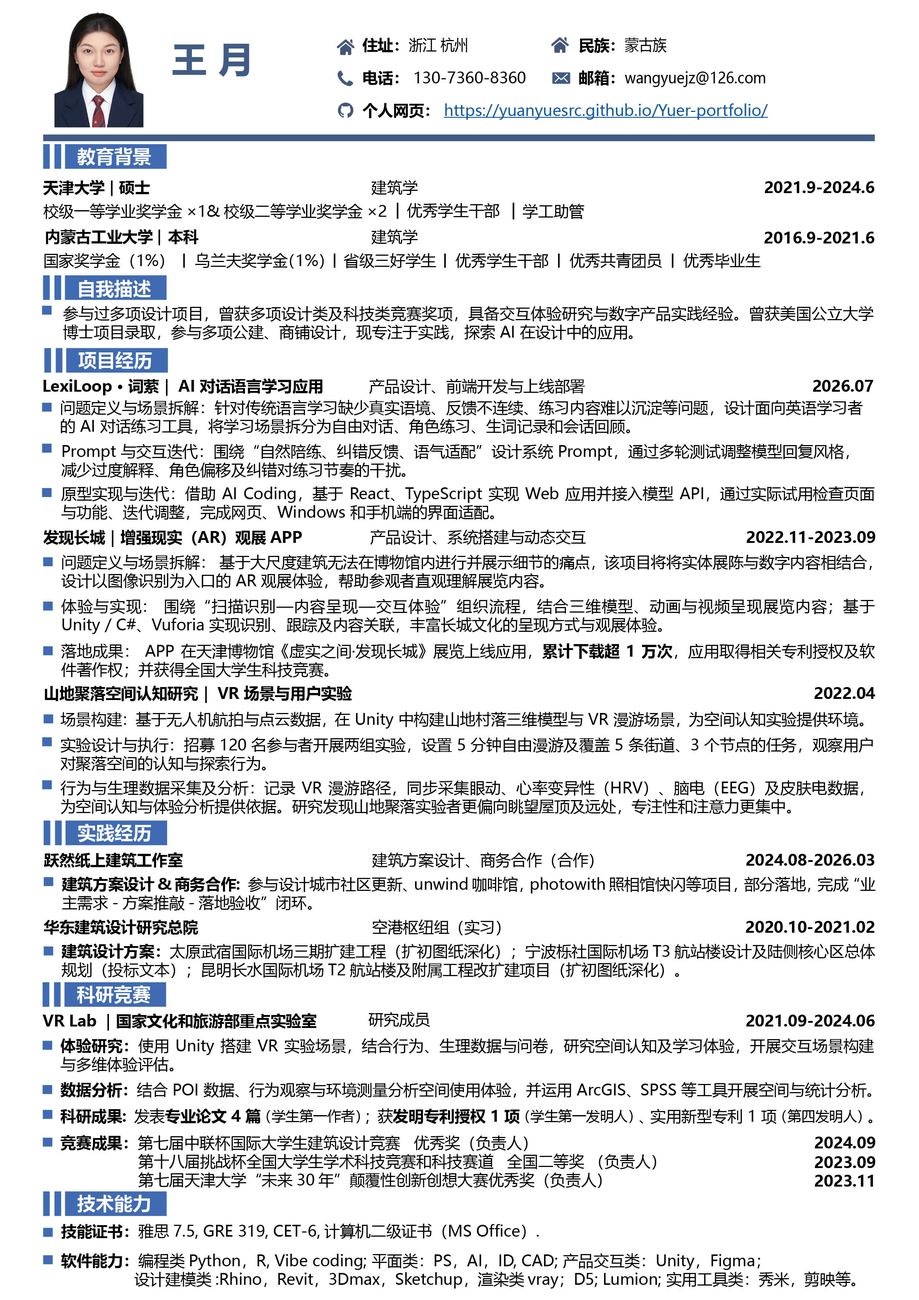
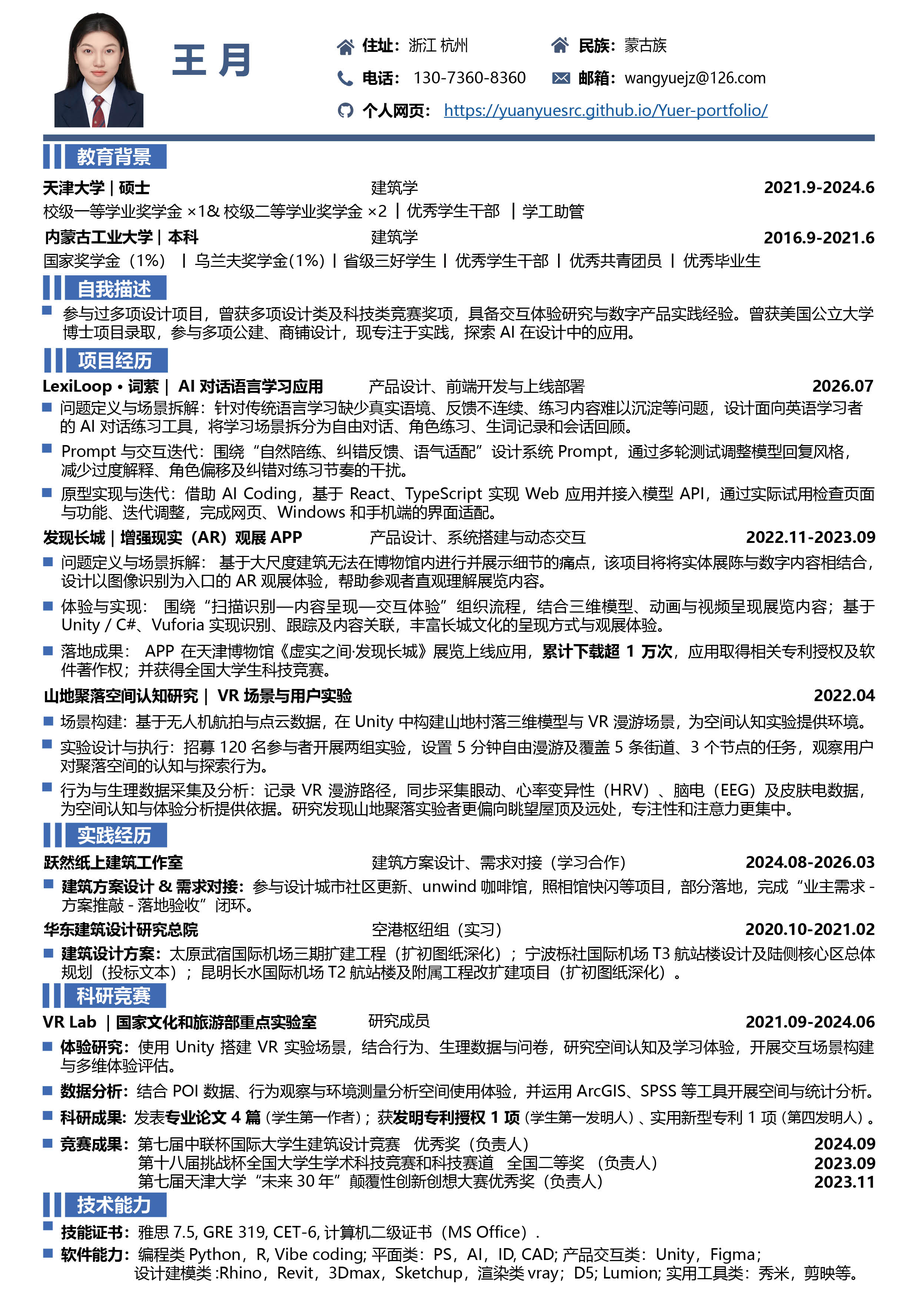
Update personal resume image and refresh cache versions

Changed region(s): [[0.031, 0.5282, 0.9625, 0.9943]]

diff --git a/index.html b/index.html
@@ -1,2 +1,2 @@
-<!doctype html><html lang="zh-CN"><head><meta charset="utf-8"><meta name="viewport" content="width=device-width,initial-scale=1"><meta name="description" content="王月 Yuer，探索 AI 在设计中的应用。建筑作品集、软件与交互，以及生活片段。"><title>Yuer · 王月的窗边工作台</title><link rel="stylesheet" href="style.css"><link rel="stylesheet" href="final.css"><link rel="stylesheet" href="airy.css"><link rel="stylesheet" href="ink-dialog.css"><link rel="stylesheet" href="music.css?v=quietnav1"><style>.quiet-aigc-divider{display:inline-block;width:1px;height:10px;background:#dedfd9;align-self:center;flex-shrink:0}</style></head><body><nav class="quiet-nav" aria-label="作品与个人介绍导航"><details class="quiet-projects aigc-menu"><summary>AIGC</summary><div class="quiet-dropdown"><a href="#" id="nav-aigc">AIGC视频</a><a href="#" id="nav-aigc-architecture">AIGC建筑</a></div></details><span class="quiet-aigc-divider" aria-hidden="true"></span><details class="quiet-projects"><summary>Apps &amp; Web</summary><div class="quiet-dropdown"><a href="lexiloop/">LexiLoop · 词萦</a><a href="timer/">Timer</a><a href="greatwall/">发现长城 · AR</a><a href="cozy-home/experience.html">四口之家·虚拟小窝</a></div></details><span class="quiet-divider" aria-hidden="true"></span><button type="button" data-open="architecture">Architecture</button><span class="quiet-divider" aria-hidden="true"></span><button type="button" id="nav-personal">About Me</button></nav><svg class="ink-filter-defs" width="0" height="0" aria-hidden="true"><defs><filter id="dry-ink" x="-3%" y="-8%" width="106%" height="116%"><feTurbulence type="fractalNoise" baseFrequency=".13" numOctaves="2" seed="7" result="grain"/><feDisplacementMap in="SourceGraphic" in2="grain" scale=".65" xChannelSelector="R" yChannelSelector="G"/></filter></defs></svg><main class="airy-layout"><section class="airy-profile"><h1 aria-label="Yuer."><span class="rough-name" aria-hidden="true"></span><span class="sr-only">Yuer.</span></h1><h2>你好，我是王月。</h2><p>一名专注于 AI 在设计中<br>探索与实践的设计者。</p><div class="welcome-note"><p>欢迎来到我的窗边工作台。<br>这里有画在纸上的空间，<br>也有发生在屏幕里的想法。</p><span lang="en">Make yourself at home.</span></div><small>点击桌上的物件，随意逛逛。 ↗</small></section><section class="airy-illustration" aria-label="可交互的窗边工作台"><div class="music-corner"><div class="music-notes" aria-hidden="true"><svg viewBox="0 0 40 56"><use href="#ink-note-single"/></svg><svg viewBox="0 0 54 56"><use href="#ink-note-pair"/></svg><svg viewBox="0 0 40 56"><use href="#ink-note-single"/></svg></div><button class="music-toggle" id="music-toggle" type="button" aria-label="播放背景音乐：森林小厨" aria-pressed="false"><svg viewBox="0 0 40 56" aria-hidden="true"><use href="#ink-note-single"/></svg><svg class="extra-note" viewBox="0 0 54 56" aria-hidden="true"><use href="#ink-note-pair"/></svg><svg class="extra-note" viewBox="0 0 40 56" aria-hidden="true"><use href="#ink-note-single"/></svg><span class="sr-only"><span id="music-label">听一会儿</span><small class="music-subtitle">A QUIET AFTERNOON</small></span></button><span class="sr-only" id="music-status" role="status" aria-live="polite"></span></div><div class="art-clip"><div class="desk-art"><img class="iced-tea" src="iced-tea-v2.webp" alt="一杯浅金色的冰茶，透明玻璃杯里浮着冰块" draggable="false"><img class="artwork" src="yuer-desk.webp" width="1672" height="941" alt="清新蓝天与绿树的窗景，桌上有绿色作品集、笔记本电脑、手机和台灯。" fetchpriority="high"><button class="hotspot book-spot" data-open="architecture" aria-label="点击绿色书本，翻阅建筑作品集" data-hint="翻开作品集 ↗"></button><button class="hotspot laptop-spot" data-open="software" aria-label="点击电脑，查看软件与交互作品" data-hint="打开电脑 ↗"></button><button class="hotspot phone-spot" data-open="mobile" aria-label="点击手机，打开发现长城等手机应用" data-hint="打开手机 ↗"></button><span class="lamp-glow" aria-hidden="true"></span><button id="lamp-switch" class="hotspot lamp-spot" aria-label="开关台灯" aria-pressed="true" data-hint="开关台灯"></button><button class="wall-photo wall-one" data-photo="0" aria-label="打开高清照片：蓝色蒙古写真"><svg viewBox="0 0 70 70" aria-hidden="true"><defs><filter id="rough-frame-1" x="-10%" y="-10%" width="120%" height="120%"><feTurbulence type="fractalNoise" baseFrequency=".075" numOctaves="2" seed="4" result="noise"/><feDisplacementMap in="SourceGraphic" in2="noise" scale="1.2" xChannelSelector="R" yChannelSelector="G"/></filter></defs><path d="M5 6L65 5 64 64 6 65Z" fill="#fffdf7" stroke="none"/><g filter="url(#rough-frame-1)" fill="none" stroke="#171a15" stroke-linecap="round" stroke-linejoin="round"><path d="M7 7L63 5 65 62 7 65 5 9" stroke-width="4.3"/><path d="M4 14L6 59 M12 4L54 4 M67 12L67 55 M14 67L58 65" stroke-width="1.7"/><path d="M12 12L58 11 M58 15L59 56 13 59 M12 55L11 17" stroke-width="1.9"/><path d="M17 48L28 36 38 46 48 32 55 46" stroke-width="2.7"/><path d="M45 23Q43 18 48 18Q53 19 51 24Q48 28 45 23" stroke-width="2.2"/><path d="M15 8L29 7 M60 41L61 54 M22 62L42 60" stroke="#505448" stroke-width="1"/></g></svg></button><button class="wall-photo wall-two" data-photo="1" aria-label="打开高清照片：绿叶间的肖像"><svg viewBox="0 0 70 70" aria-hidden="true"><defs><filter id="rough-frame-2" x="-10%" y="-10%" width="120%" height="120%"><feTurbulence type="fractalNoise" baseFrequency=".075" numOctaves="2" seed="5" result="noise"/><feDisplacementMap in="SourceGraphic" in2="noise" scale="1.2" xChannelSelector="R" yChannelSelector="G"/></filter></defs><path d="M5 6L65 5 64 64 6 65Z" fill="#fffdf7" stroke="none"/><g filter="url(#rough-frame-2)" fill="none" stroke="#171a15" stroke-linecap="round" stroke-linejoin="round"><path d="M7 7L63 5 65 62 7 65 5 9" stroke-width="4.3"/><path d="M4 14L6 59 M12 4L54 4 M67 12L67 55 M14 67L58 65" stroke-width="1.7"/><path d="M12 12L58 11 M58 15L59 56 13 59 M12 55L11 17" stroke-width="1.9"/><path d="M17 48L28 36 38 46 48 32 55 46" stroke-width="2.7"/><path d="M45 23Q43 18 48 18Q53 19 51 24Q48 28 45 23" stroke-width="2.2"/><path d="M15 8L29 7 M60 41L61 54 M22 62L42 60" stroke="#505448" stroke-width="1"/></g></svg></button><button class="wall-photo wall-three" data-photo="2" aria-label="打开高清照片：午后甜点"><svg viewBox="0 0 70 70" aria-hidden="true"><defs><filter id="rough-frame-3" x="-10%" y="-10%" width="120%" height="120%"><feTurbulence type="fractalNoise" baseFrequency=".075" numOctaves="2" seed="6" result="noise"/><feDisplacementMap in="SourceGraphic" in2="noise" scale="1.2" xChannelSelector="R" yChannelSelector="G"/></filter></defs><path d="M5 6L65 5 64 64 6 65Z" fill="#fffdf7" stroke="none"/><g filter="url(#rough-frame-3)" fill="none" stroke="#171a15" stroke-linecap="round" stroke-linejoin="round"><path d="M7 7L63 5 65 62 7 65 5 9" stroke-width="4.3"/><path d="M4 14L6 59 M12 4L54 4 M67 12L67 55 M14 67L58 65" stroke-width="1.7"/><path d="M12 12L58 11 M58 15L59 56 13 59 M12 55L11 17" stroke-width="1.9"/><path d="M17 48L28 36 38 46 48 32 55 46" stroke-width="2.7"/><path d="M45 23Q43 18 48 18Q53 19 51 24Q48 28 45 23" stroke-width="2.2"/><path d="M15 8L29 7 M60 41L61 54 M22 62L42 60" stroke="#505448" stroke-width="1"/></g></svg></button></div></div></section></main><footer class="page-signoff" lang="en"><span>A little curious. Always making.</span></footer><dialog class="panel" id="software" aria-labelledby="software-title"><div class="panel-head"><span>软件与交互 <small>DIGITAL WORKS</small></span><button class="close" data-close aria-label="关闭软件作品"><svg viewBox="0 0 30 30" aria-hidden="true"><path d="M6 5L24 24 M24 5L5 25" fill="none" stroke="#252c1e" stroke-width="4.5" stroke-linecap="round"/><path d="M5 8L22 25 M25 8L9 24" fill="none" stroke="#5a644a" stroke-width="1.2" stroke-linecap="round"/></svg></button></div><div class="desktop-dialog-body"><iframe id="virtual-computer" data-src="virtual-desktop/index.html?v=organized-labels-20261112" title="虚拟电脑，点击桌面图标查看项目介绍" allow="fullscreen"></iframe><div class="desktop-more"><span>一张桌面，一些可以亲手体验的想法。</span><a href="https://timer-focus-portfolio.bluishtrail.chatgpt.site/" target="_blank" rel="noopener">了解更多 · Timer ↗</a></div></div></dialog>
+<!doctype html><html lang="zh-CN"><head><meta charset="utf-8"><meta name="viewport" content="width=device-width,initial-scale=1"><meta name="description" content="王月 Yuer，探索 AI 在设计中的应用。建筑作品集、软件与交互，以及生活片段。"><title>Yuer · 王月的窗边工作台</title><link rel="stylesheet" href="style.css"><link rel="stylesheet" href="final.css"><link rel="stylesheet" href="airy.css"><link rel="stylesheet" href="ink-dialog.css"><link rel="stylesheet" href="music.css?v=quietnav1"><style>.quiet-aigc-divider{display:inline-block;width:1px;height:10px;background:#dedfd9;align-self:center;flex-shrink:0}</style></head><body><nav class="quiet-nav" aria-label="作品与个人介绍导航"><details class="quiet-projects aigc-menu"><summary>AIGC</summary><div class="quiet-dropdown"><a href="#" id="nav-aigc">AIGC视频</a><a href="#" id="nav-aigc-architecture">AIGC建筑</a></div></details><span class="quiet-aigc-divider" aria-hidden="true"></span><details class="quiet-projects"><summary>Apps &amp; Web</summary><div class="quiet-dropdown"><a href="lexiloop/">LexiLoop · 词萦</a><a href="timer/">Timer</a><a href="greatwall/">发现长城 · AR</a><a href="cozy-home/experience.html">四口之家·虚拟小窝</a></div></details><span class="quiet-divider" aria-hidden="true"></span><button type="button" data-open="architecture">Architecture</button><span class="quiet-divider" aria-hidden="true"></span><button type="button" id="nav-personal">About Me</button></nav><svg class="ink-filter-defs" width="0" height="0" aria-hidden="true"><defs><filter id="dry-ink" x="-3%" y="-8%" width="106%" height="116%"><feTurbulence type="fractalNoise" baseFrequency=".13" numOctaves="2" seed="7" result="grain"/><feDisplacementMap in="SourceGraphic" in2="grain" scale=".65" xChannelSelector="R" yChannelSelector="G"/></filter></defs></svg><main class="airy-layout"><section class="airy-profile"><h1 aria-label="Yuer."><span class="rough-name" aria-hidden="true"></span><span class="sr-only">Yuer.</span></h1><h2>你好，我是王月。</h2><p>一名专注于 AI 在设计中<br>探索与实践的设计者。</p><div class="welcome-note"><p>欢迎来到我的窗边工作台。<br>这里有画在纸上的空间，<br>也有发生在屏幕里的想法。</p><span lang="en">Make yourself at home.</span></div><small>点击桌上的物件，随意逛逛。 ↗</small></section><section class="airy-illustration" aria-label="可交互的窗边工作台"><div class="music-corner"><div class="music-notes" aria-hidden="true"><svg viewBox="0 0 40 56"><use href="#ink-note-single"/></svg><svg viewBox="0 0 54 56"><use href="#ink-note-pair"/></svg><svg viewBox="0 0 40 56"><use href="#ink-note-single"/></svg></div><button class="music-toggle" id="music-toggle" type="button" aria-label="播放背景音乐：森林小厨" aria-pressed="false"><svg viewBox="0 0 40 56" aria-hidden="true"><use href="#ink-note-single"/></svg><svg class="extra-note" viewBox="0 0 54 56" aria-hidden="true"><use href="#ink-note-pair"/></svg><svg class="extra-note" viewBox="0 0 40 56" aria-hidden="true"><use href="#ink-note-single"/></svg><span class="sr-only"><span id="music-label">听一会儿</span><small class="music-subtitle">A QUIET AFTERNOON</small></span></button><span class="sr-only" id="music-status" role="status" aria-live="polite"></span></div><div class="art-clip"><div class="desk-art"><img class="iced-tea" src="iced-tea-v2.webp" alt="一杯浅金色的冰茶，透明玻璃杯里浮着冰块" draggable="false"><img class="artwork" src="yuer-desk.webp" width="1672" height="941" alt="清新蓝天与绿树的窗景，桌上有绿色作品集、笔记本电脑、手机和台灯。" fetchpriority="high"><button class="hotspot book-spot" data-open="architecture" aria-label="点击绿色书本，翻阅建筑作品集" data-hint="翻开作品集 ↗"></button><button class="hotspot laptop-spot" data-open="software" aria-label="点击电脑，查看软件与交互作品" data-hint="打开电脑 ↗"></button><button class="hotspot phone-spot" data-open="mobile" aria-label="点击手机，打开发现长城等手机应用" data-hint="打开手机 ↗"></button><span class="lamp-glow" aria-hidden="true"></span><button id="lamp-switch" class="hotspot lamp-spot" aria-label="开关台灯" aria-pressed="true" data-hint="开关台灯"></button><button class="wall-photo wall-one" data-photo="0" aria-label="打开高清照片：蓝色蒙古写真"><svg viewBox="0 0 70 70" aria-hidden="true"><defs><filter id="rough-frame-1" x="-10%" y="-10%" width="120%" height="120%"><feTurbulence type="fractalNoise" baseFrequency=".075" numOctaves="2" seed="4" result="noise"/><feDisplacementMap in="SourceGraphic" in2="noise" scale="1.2" xChannelSelector="R" yChannelSelector="G"/></filter></defs><path d="M5 6L65 5 64 64 6 65Z" fill="#fffdf7" stroke="none"/><g filter="url(#rough-frame-1)" fill="none" stroke="#171a15" stroke-linecap="round" stroke-linejoin="round"><path d="M7 7L63 5 65 62 7 65 5 9" stroke-width="4.3"/><path d="M4 14L6 59 M12 4L54 4 M67 12L67 55 M14 67L58 65" stroke-width="1.7"/><path d="M12 12L58 11 M58 15L59 56 13 59 M12 55L11 17" stroke-width="1.9"/><path d="M17 48L28 36 38 46 48 32 55 46" stroke-width="2.7"/><path d="M45 23Q43 18 48 18Q53 19 51 24Q48 28 45 23" stroke-width="2.2"/><path d="M15 8L29 7 M60 41L61 54 M22 62L42 60" stroke="#505448" stroke-width="1"/></g></svg></button><button class="wall-photo wall-two" data-photo="1" aria-label="打开高清照片：绿叶间的肖像"><svg viewBox="0 0 70 70" aria-hidden="true"><defs><filter id="rough-frame-2" x="-10%" y="-10%" width="120%" height="120%"><feTurbulence type="fractalNoise" baseFrequency=".075" numOctaves="2" seed="5" result="noise"/><feDisplacementMap in="SourceGraphic" in2="noise" scale="1.2" xChannelSelector="R" yChannelSelector="G"/></filter></defs><path d="M5 6L65 5 64 64 6 65Z" fill="#fffdf7" stroke="none"/><g filter="url(#rough-frame-2)" fill="none" stroke="#171a15" stroke-linecap="round" stroke-linejoin="round"><path d="M7 7L63 5 65 62 7 65 5 9" stroke-width="4.3"/><path d="M4 14L6 59 M12 4L54 4 M67 12L67 55 M14 67L58 65" stroke-width="1.7"/><path d="M12 12L58 11 M58 15L59 56 13 59 M12 55L11 17" stroke-width="1.9"/><path d="M17 48L28 36 38 46 48 32 55 46" stroke-width="2.7"/><path d="M45 23Q43 18 48 18Q53 19 51 24Q48 28 45 23" stroke-width="2.2"/><path d="M15 8L29 7 M60 41L61 54 M22 62L42 60" stroke="#505448" stroke-width="1"/></g></svg></button><button class="wall-photo wall-three" data-photo="2" aria-label="打开高清照片：午后甜点"><svg viewBox="0 0 70 70" aria-hidden="true"><defs><filter id="rough-frame-3" x="-10%" y="-10%" width="120%" height="120%"><feTurbulence type="fractalNoise" baseFrequency=".075" numOctaves="2" seed="6" result="noise"/><feDisplacementMap in="SourceGraphic" in2="noise" scale="1.2" xChannelSelector="R" yChannelSelector="G"/></filter></defs><path d="M5 6L65 5 64 64 6 65Z" fill="#fffdf7" stroke="none"/><g filter="url(#rough-frame-3)" fill="none" stroke="#171a15" stroke-linecap="round" stroke-linejoin="round"><path d="M7 7L63 5 65 62 7 65 5 9" stroke-width="4.3"/><path d="M4 14L6 59 M12 4L54 4 M67 12L67 55 M14 67L58 65" stroke-width="1.7"/><path d="M12 12L58 11 M58 15L59 56 13 59 M12 55L11 17" stroke-width="1.9"/><path d="M17 48L28 36 38 46 48 32 55 46" stroke-width="2.7"/><path d="M45 23Q43 18 48 18Q53 19 51 24Q48 28 45 23" stroke-width="2.2"/><path d="M15 8L29 7 M60 41L61 54 M22 62L42 60" stroke="#505448" stroke-width="1"/></g></svg></button></div></div></section></main><footer class="page-signoff" lang="en"><span>A little curious. Always making.</span></footer><dialog class="panel" id="software" aria-labelledby="software-title"><div class="panel-head"><span>软件与交互 <small>DIGITAL WORKS</small></span><button class="close" data-close aria-label="关闭软件作品"><svg viewBox="0 0 30 30" aria-hidden="true"><path d="M6 5L24 24 M24 5L5 25" fill="none" stroke="#252c1e" stroke-width="4.5" stroke-linecap="round"/><path d="M5 8L22 25 M25 8L9 24" fill="none" stroke="#5a644a" stroke-width="1.2" stroke-linecap="round"/></svg></button></div><div class="desktop-dialog-body"><iframe id="virtual-computer" data-src="virtual-desktop/index.html?v=resume-20261112-new" title="虚拟电脑，点击桌面图标查看项目介绍" allow="fullscreen"></iframe><div class="desktop-more"><span>一张桌面，一些可以亲手体验的想法。</span><a href="https://timer-focus-portfolio.bluishtrail.chatgpt.site/" target="_blank" rel="noopener">了解更多 · Timer ↗</a></div></div></dialog>
 <dialog class="panel book-panel" id="architecture" aria-labelledby="architecture-title"><div class="panel-head"><span id="architecture-title">建筑作品集 <small>COMPLETE PORTFOLIO</small></span><button class="close" data-close aria-label="关闭建筑作品"><svg viewBox="0 0 30 30" aria-hidden="true"><path d="M6 5L24 24 M24 5L5 25" fill="none" stroke="#252c1e" stroke-width="4.5" stroke-linecap="round"/><path d="M5 8L22 25 M25 8L9 24" fill="none" stroke="#5a644a" stroke-width="1.2" stroke-linecap="round"/></svg></button></div><div class="book-viewer"><div class="book-tools"><button id="book-prev" aria-label="上一页">← 上一页</button><span id="book-count" aria-live="polite">01 / 43</span><button id="book-next" aria-label="下一页">下一页 →</button></div><a id="book-full" href="architecture-2026/page-01.jpg" target="_blank" rel="noopener" aria-label="在新窗口放大当前作品页"><img id="book-image" src="architecture-2026/page-01.jpg" alt="建筑作品集封面" loading="lazy"></a><div class="book-thumbs" aria-label="选择作品页"></div><p class="book-tip">点击图片可放大查看 · ← → 键翻页</p></div></dialog><dialog class="panel" id="about" aria-labelledby="about-title"><div class="panel-head"><span>关于我 <small>ABOUT YUER</small></span><button class="close" data-close aria-label="关闭个人介绍"><svg viewBox="0 0 30 30" aria-hidden="true"><path d="M6 5L24 24 M24 5L5 25" fill="none" stroke="#252c1e" stroke-width="4.5" stroke-linecap="round"/><path d="M5 8L22 25 M25 8L9 24" fill="none" stroke="#5a644a" stroke-width="1.2" stroke-linecap="round"/></svg></button></div><div class="panel-body"><div class="eyebrow">HELLO, I'M YUER.</div><h2 id="about-title">你好，我是王月。</h2><p>一名专注于 AI 在设计中探索与实践的设计者。</p><p>从建筑空间到屏幕里的交互，<br>我喜欢把想法做成可以被看见、被体验的东西。</p><div class="welcome-about"><p>在空间与屏幕之间，慢慢做些有意思的事。</p><p>书本，是纸上的空间。<br>电脑，是可以亲手体验的想法。<br>希望你在这里，像坐到窗边一样自在。</p></div><div class="about-portrait"><img src="photos/spring-thumb.webp" alt="绿叶间的王月"><button data-photo="1">打开生活相册 ↗</button></div><div class="link-row"><button data-open="architecture">建筑作品集 ↗</button><button data-open="software">软件与交互 ↗</button></div></div></dialog><dialog class="panel photo-panel" id="photos" aria-labelledby="photo-title"><div class="panel-head"><span id="photo-title">生活片段 <small>LIFE IN FRAMES</small></span><button class="close" data-close aria-label="关闭照片"><svg viewBox="0 0 30 30" aria-hidden="true"><path d="M6 5L24 24 M24 5L5 25" fill="none" stroke="#252c1e" stroke-width="4.5" stroke-linecap="round"/><path d="M5 8L22 25 M25 8L9 24" fill="none" stroke="#5a644a" stroke-width="1.2" stroke-linecap="round"/></svg></button></div><div class="photo-toolbar"><button id="photo-prev" aria-label="上一张照片">← 上一张</button><span id="photo-counter" aria-live="polite">1 / 3</span><button id="photo-next" aria-label="下一张照片">下一张 →</button></div><div class="photo-stage" id="photo-stage" tabindex="0" aria-label="高清照片，可滚动查看放大的照片"><img id="photo-image" alt=""></div><div class="photo-bottom"><span id="photo-caption"></span><button id="photo-zoom" aria-pressed="false">放大查看 ＋</button><a id="photo-original" target="_blank" rel="noopener">新窗口看原图 ↗</a></div><div class="photo-strip" aria-label="选择生活照片"><button data-photo-select="0" aria-label="选择蒙古写真"><img src="photos/portrait-thumb.webp" alt=""></button><button data-photo-select="1" aria-label="选择春日人像"><img src="photos/spring-thumb.webp" alt=""></button><button data-photo-select="2" aria-label="选择午后甜点"><img src="photos/afternoon-thumb.webp" alt=""></button></div><p class="photo-note">← → 切换照片 · Esc 返回工作台</p></dialog><dialog class="panel mobile-panel" id="mobile" aria-labelledby="mobile-title"><div class="panel-head"><span id="mobile-title">我的手机 <small>POCKET PROJECTS</small></span><button class="close" data-close aria-label="关闭虚拟手机"><svg viewBox="0 0 30 30" aria-hidden="true"><path d="M6 5L24 24 M24 5L5 25" fill="none" stroke="#252c1e" stroke-width="4.5" stroke-linecap="round"/></svg></button></div><div class="pocket-body"><div class="pocket-phone"><div class="pocket-status"><span>9:41</span><span>▥ ▰</span></div><span class="pocket-speaker" aria-hidden="true"></span><div class="pocket-greeting"><small>YUER'S POCKET</small><p>一些随身的，<br>有意思的想法。</p></div><div class="pocket-apps"><a class="pocket-app" href="greatwall/" aria-label="打开发现长城项目介绍与AR交互体验"><span class="pocket-icon"><img src="greatwall/assets/app-icon.png" alt="发现长城" width="64" height="64"></span><span>发现长城</span></a><button class="pocket-app" data-open="about" aria-label="打开关于王月的介绍"><span class="pocket-icon about-pocket-icon"><svg viewBox="0 0 64 64" aria-hidden="true"><path d="M9 48Q31 27 54 48 M23 23Q22 10 33 11Q45 10 44 23Q43 35 33 35Q22 34 23 23 M8 51L56 50" fill="none" stroke="#30392a" stroke-width="3.5" stroke-linecap="round"/></svg></span><span>关于我</span></button></div><svg class="pocket-landscape" viewBox="0 0 300 150" aria-hidden="true"><path d="M-10 130Q25 60 63 88T143 65T224 96T320 53" fill="none" stroke="#80916c" stroke-width="3"/><path d="M-10 146Q57 94 100 114T200 109T320 110" fill="#d7dfc8" stroke="#899875" stroke-width="2"/><path d="M237 39Q224 32 233 22Q246 14 252 27Q257 42 237 39" fill="#e5dbb8" stroke="#88896d" stroke-width="2"/></svg><div class="pocket-home" aria-hidden="true"></div></div><p class="pocket-hint">点开图标，随意逛逛。 ↗</p></div></dialog><svg class="music-symbols" aria-hidden="true"><defs><symbol id="ink-note-single" viewBox="0 0 40 56"><path d="M20 42C18 38 10 38 6 43C2 47 5 52 10 52C17 52 23 48 22 42Z" fill="currentColor"/><path d="M21 43L22 6C27 10 33 12 34 19C34 23 31 26 28 27" fill="none" stroke="currentColor" stroke-width="4" stroke-linecap="round" stroke-linejoin="round"/><path d="M19 37L20 11M24 8Q34 14 35 19M7 49Q13 52 19 46" fill="none" stroke="currentColor" stroke-width="1.3" stroke-linecap="round"/></symbol><symbol id="ink-note-pair" viewBox="0 0 54 56"><path d="M18 39C13 35 5 39 4 44C2 49 8 51 13 49C19 48 21 44 18 39ZM46 32C42 29 34 32 32 37C30 42 36 44 42 42C48 40 50 36 46 32Z" fill="currentColor"/><path d="M19 42L20 12L47 5L47 36M20 17L47 10" fill="none" stroke="currentColor" stroke-width="4" stroke-linecap="round" stroke-linejoin="round"/><path d="M17 35L18 15M49 9L48 29" fill="none" stroke="currentColor" stroke-width="1.2" stroke-linecap="round"/></symbol></defs></svg><audio id="afternoon-music" src="audio/forest-kitchen.mp3" preload="metadata" loop aria-label="森水垚、沐灵仙：森林小厨"></audio><script src="main.js?v=20261102-book2026"></script><script src="music.js?v=20261102-autoplay"></script><script src="quiet-nav.js?v=1"></script><script>document.getElementById("nav-aigc").onclick=e=>{e.preventDefault();e.target.closest("details").open=false;openPanel("software",e.currentTarget);const f=document.getElementById("virtual-computer");const send=()=>f.contentWindow.postMessage({type:"yuer-open-aigc"},location.origin);f.addEventListener("load",send,{once:true});send()};</script><script>document.getElementById("nav-aigc-architecture").onclick=e=>{e.preventDefault();e.target.closest("details").open=false;openPanel("software",e.currentTarget);const f=document.getElementById("virtual-computer");const send=()=>f.contentWindow.postMessage({type:"yuer-open-architecture"},location.origin);f.addEventListener("load",send,{once:true});send()};</script></body></html>

diff --git a/virtual-desktop/index.html b/virtual-desktop/index.html
@@ -1,1 +1,1 @@
-<!doctype html><html lang="zh-CN"><head><meta charset="utf-8"><meta name="viewport" content="width=device-width,initial-scale=1"><title>Yuer · 虚拟电脑</title><link rel="stylesheet" href="desktop.css"><link rel="stylesheet" href="embed.css?v=cozy-home-20261110b"><style>.desktop-icons{gap:12px;display:grid;grid-template-rows:repeat(3,120px);grid-auto-flow:column;grid-auto-columns:130px}.desktop:has(#aigc-window:not([hidden])) .desktop-icons{visibility:hidden}#aigc-window{z-index:20}#aigc-window.document-maximized{z-index:25}</style><style>#cityvr-window{z-index:30}.desktop:has(#cityvr-window:not([hidden])) .desktop-icons{visibility:hidden}.desktop-icons{grid-template-rows:repeat(3,120px)}</style><style>#architecture-window{z-index:35}.desktop:has(#architecture-window:not([hidden])) .desktop-icons{visibility:hidden}</style><link rel="stylesheet" href="organized.css?v=20261112-spacing2"></head><body><main id="experience"><button id="open-timer" hidden>打开 Timer</button><div class="monitor" id="monitor"><div class="screen-viewport" id="screen-viewport"><div class="desktop" id="desktop"><div class="os-bar"><span><b class="os-brand"><img src="timer-logo.svg" alt="timer." width="54" height="16"> DESKTOP</b> &nbsp; / &nbsp; PERSONAL SPACE</span><span id="timer-status">● READY</span></div><div class="desktop-icons desktop-organized"><section class="desktop-group"><div class="group-items"><a class="desktop-icon lexiloop-desktop" href="../lexiloop/" target="_top" rel="noopener" aria-label="打开 LexiLoop 词萦介绍页"><span class="app-icon"><img src="../lexiloop/app/icon.svg" alt="词萦循环标志" width="64" height="64"></span><span class="shortcut-label">LexiLoop 词萦</span></a><a class="desktop-icon lexiloop-desktop greatwall-desktop" href="../greatwall/" target="_top" aria-label="打开发现长城 AR 项目介绍"><span class="app-icon"><img src="../greatwall/assets/app-icon.png" alt="发现长城 AR 图标" width="64" height="64" style="object-fit:contain;border-radius:14px"></span><span class="shortcut-label">发现长城 AR</span></a><a class="desktop-icon" id="timer-icon" href="../timer/" target="_top" aria-label="打开 Timer 项目介绍页"><span class="app-icon pixel-app-icon"><img src="timer-app-icon.svg" alt="像素秒表图标" width="64" height="64"></span><span class="shortcut-label">Timer</span></a><a class="desktop-icon lexiloop-desktop cozy-home-desktop" href="../cozy-home/experience.html" target="_top" aria-label="进入四口之家虚拟小窝"><span class="app-icon"><img src="../cozy-home/icon.png" alt="四口之家图标" width="64" height="64"></span><span class="shortcut-label">四口之家·虚拟小窝</span></a></div><h2>Apps &amp; Web</h2></section><section class="desktop-group"><div class="group-items"><button class="desktop-icon" id="open-aigc"><span class="app-icon notes-icon" style="background:#eee8d8;color:#82906a;font-size:27px">✦</span><span class="shortcut-label">AIGC视频</span></button><button class="desktop-icon lexiloop-desktop" id="open-architecture" aria-label="打开AIGC建筑文档"><span class="app-icon"><img src="../aigc-architecture/assets/aigc-architecture-icon-gradient.png" alt="AIGC建筑深蓝渐变四角星图标" width="64" height="64" style="object-fit:contain"></span><span class="shortcut-label">AIGC建筑</span></button><button class="desktop-icon lexiloop-desktop" id="open-cityvr" aria-label="打开城市漫游VR文档"><span class="app-icon"><img src="../cityvr/assets/cityvr-square-icon.png" alt="城市漫游VR图标" width="64" height="64" style="object-fit:contain"></span><span class="shortcut-label">城市漫游VR</span></button></div><h2>AIGC&amp;VR</h2></section><div class="desktop-personal"><button class="desktop-icon" id="open-notes" aria-label="打开个人介绍文档"><span class="app-icon notes-icon">≡</span><span class="shortcut-label">关于我</span></button></div></div><div class="desktop-copy"><h2>One thing.<br>At a time.</h2><p>MAKE SPACE FOR FOCUS.</p></div><section class="window note-window document-maximized" id="architecture-window" hidden aria-label="AIGC建筑文档"><div class="window-chrome"><span>AIGC建筑.doc</span><div class="controls"><button id="min-architecture" aria-label="最小化">−</button><button id="max-architecture" aria-label="还原或最大化">□</button><button id="close-architecture" aria-label="关闭">×</button></div></div><iframe data-src="../aigc-architecture/?embed=1" title="AIGC建筑工作流文档" style="border:0;flex:1;width:100%;min-height:0;background:#080a0c"></iframe></section><section class="window note-window document-maximized" id="cityvr-window" hidden aria-label="城市漫游VR文档"><div class="window-chrome"><span>城市漫游VR.doc</span><div class="controls"><button id="min-cityvr" aria-label="最小化">−</button><button id="max-cityvr" aria-label="还原或最大化">□</button><button id="close-cityvr" aria-label="关闭">×</button></div></div><iframe data-src="../cityvr/?embed=1" title="城市漫游VR与Unity分析文档" style="border:0;flex:1;width:100%;min-height:0;background:#fffefb"></iframe></section><section class="window note-window" id="aigc-window" hidden aria-label="AIGC视频文档"><div class="window-chrome"><span>AIGC视频.doc</span><div class="controls"><button id="min-aigc" aria-label="最小化">−</button><button id="max-aigc" aria-label="最大化">□</button><button id="close-aigc" aria-label="关闭">×</button></div></div><iframe src="../aigc-video/?embed=1" title="AIGC视频：工作流与提示词修改" style="border:0;flex:1;width:100%;min-height:0;background:#fffefb"></iframe></section><section class="window note-window" id="notes-window" hidden aria-label="个人介绍文档窗口"><div class="window-chrome"><span>个人介绍.doc</span><div class="controls"><button id="minimize-notes" aria-label="最小化个人介绍文档">−</button><button id="maximize-notes" aria-label="放大个人介绍文档" aria-pressed="false">□</button><button id="close-notes" aria-label="关闭个人介绍文档">×</button></div></div><div class="note-body personal-document"><div class="document-intro"><small>PERSONAL INTRODUCTION / YUER</small><h3>你好，我是王月。</h3><p>从建筑空间到屏幕里的交互，我喜欢把想法做成可以被看见、被体验的东西。</p><p>建筑学的学习与研究，让我习惯从人的感知、行为和使用场景出发。现在，我也在探索 AI 在设计中的应用，把这些思考带进数字产品与交互实践。</p><p class="document-signature">A little curious. Always making.</p></div><nav class="document-outline" aria-label="个人介绍文档目录"><a href="#personal-resume">01 个人简历 ↓</a><a href="#personal-hobbies">02 兴趣爱好 ↓</a></nav><section id="personal-resume" class="document-section"><small>01 / RESUME</small><h3>1. 个人简历</h3><p>教育经历、研究与项目实践。</p><a href="personal/resume-1.jpg" target="_blank" rel="noopener" aria-label="放大个人简历"><img src="personal/resume-1.jpg" alt="王月个人简历，包含教育背景、项目经历与专业技能" loading="lazy"></a></section><section id="personal-hobbies" class="document-section"><small>02 / BEYOND WORK</small><h3>2. 兴趣爱好</h3><p>书法、绘画与摄影，记录工作之外的日常。</p><a href="personal/hobbies-1.jpg" target="_blank" rel="noopener" aria-label="放大书画作品"><img src="personal/hobbies-1.jpg" alt="书法、水彩与绘画作品" loading="lazy"></a><a href="personal/hobbies-2.jpg" target="_blank" rel="noopener" aria-label="放大摄影作品"><img src="personal/hobbies-2.jpg" alt="个人摄影作品" loading="lazy"></a></section><p class="document-end">— A little curious. Always making. —</p></div></section><section class="window" id="timer-window" hidden aria-label="Timer 应用窗口"><div class="window-chrome" id="timer-drag"><span class="window-brand"><img class="timer-app-symbol" src="timer-app-icon.svg" alt="" width="20" height="20"><img class="brand-word" src="timer-logo.svg" alt="timer." width="53" height="16"><span id="window-label">/ TODAY</span></span><div class="controls"><button class="minimize" id="minimize" aria-label="最小化 Timer">−</button><button id="maximize" aria-label="切换 Timer 窗口最大化">□</button><button class="close" id="close-timer" aria-label="关闭 Timer 窗口">×</button></div></div><iframe id="timer-frame" src="product/index.html?view=tracker" title="Timer 原版应用，可操作的示例界面"></iframe></section><div class="taskbar"><div class="taskbar-left"><span class="os-mark">▦</span><div class="taskbar-apps"><button id="task-timer" aria-label="打开或恢复 Timer"><img class="timer-app-symbol" src="timer-app-icon.svg" alt="" width="23" height="23"><img src="timer-logo.svg" alt="timer." width="56" height="17"></button><button id="task-notes">≡ &nbsp; 个人介绍</button></div></div><button id="toggle-timer" hidden>▷ 开始计时</button><div class="tray"><span>◈ &nbsp; ▰</span><span id="os-clock"></span><span id="os-date"></span></div></div><div id="toast" class="toast" role="status" hidden></div></div></div><div class="bezel">YUER / PERSONAL DESKTOP</div></div><div class="experience-toolbar"><button id="fullscreen" class="quiet">全屏体验 ↗</button><div class="presets" aria-label="体验场景" hidden><button data-view="tracker" aria-pressed="true">01 主窗口</button><button data-view="floating" aria-pressed="false">02 悬浮专注</button><button data-view="stats" aria-pressed="false">03 时间统计</button><button data-view="data" aria-pressed="false">04 偏好设置</button></div><span class="hint">点击桌面图标探索项目</span></div></main><script src="desktop.js?v=personal-window2"></script><script>const aw=document.getElementById("aigc-window");function openAigc(){document.getElementById("architecture-window").hidden=true;document.getElementById("cityvr-window").hidden=true;aw.hidden=false;aw.classList.add("document-maximized");document.getElementById("notes-window").hidden=true}document.getElementById("open-aigc").onclick=openAigc;document.getElementById("min-aigc").onclick=()=>aw.hidden=true;document.getElementById("close-aigc").onclick=()=>{aw.hidden=true;aw.querySelector("iframe").contentWindow.postMessage({type:"pause-media"},location.origin)};document.getElementById("max-aigc").onclick=()=>aw.classList.toggle("document-maximized");window.addEventListener("message",e=>{if(e.origin===location.origin&&e.data?.type==="yuer-open-aigc")openAigc()});</script><script>const cw=document.getElementById("cityvr-window"),cf=cw.querySelector("iframe");function pauseCity(){cf.contentWindow.postMessage({type:"pause-media"},location.origin)}document.getElementById("open-cityvr").onclick=()=>{document.getElementById("architecture-window").hidden=true;document.getElementById("aigc-window").hidden=true;document.getElementById("notes-window").hidden=true;cw.hidden=false;cw.classList.add("document-maximized");if(!cf.getAttribute("src"))cf.src=cf.dataset.src};for(const id of ["min-cityvr","close-cityvr"])document.getElementById(id).onclick=()=>{pauseCity();cw.hidden=true};document.getElementById("max-cityvr").onclick=()=>cw.classList.toggle("document-maximized");</script><script>const arw=document.getElementById("architecture-window"),arf=arw.querySelector("iframe");function openArchitecture(){for(const id of ["aigc-window","cityvr-window","notes-window"])document.getElementById(id).hidden=true;arw.hidden=false;arw.classList.add("document-maximized");if(!arf.getAttribute("src"))arf.src=arf.dataset.src}document.getElementById("open-architecture").onclick=openArchitecture;for(const id of ["min-architecture","close-architecture"])document.getElementById(id).onclick=()=>arw.hidden=true;document.getElementById("max-architecture").onclick=()=>arw.classList.toggle("document-maximized");window.addEventListener("message",e=>{if(e.origin===location.origin&&e.data?.type==="yuer-open-architecture")openArchitecture()});</script></body></html>
+<!doctype html><html lang="zh-CN"><head><meta charset="utf-8"><meta name="viewport" content="width=device-width,initial-scale=1"><title>Yuer · 虚拟电脑</title><link rel="stylesheet" href="desktop.css"><link rel="stylesheet" href="embed.css?v=cozy-home-20261110b"><style>.desktop-icons{gap:12px;display:grid;grid-template-rows:repeat(3,120px);grid-auto-flow:column;grid-auto-columns:130px}.desktop:has(#aigc-window:not([hidden])) .desktop-icons{visibility:hidden}#aigc-window{z-index:20}#aigc-window.document-maximized{z-index:25}</style><style>#cityvr-window{z-index:30}.desktop:has(#cityvr-window:not([hidden])) .desktop-icons{visibility:hidden}.desktop-icons{grid-template-rows:repeat(3,120px)}</style><style>#architecture-window{z-index:35}.desktop:has(#architecture-window:not([hidden])) .desktop-icons{visibility:hidden}</style><link rel="stylesheet" href="organized.css?v=20261112-spacing2"></head><body><main id="experience"><button id="open-timer" hidden>打开 Timer</button><div class="monitor" id="monitor"><div class="screen-viewport" id="screen-viewport"><div class="desktop" id="desktop"><div class="os-bar"><span><b class="os-brand"><img src="timer-logo.svg" alt="timer." width="54" height="16"> DESKTOP</b> &nbsp; / &nbsp; PERSONAL SPACE</span><span id="timer-status">● READY</span></div><div class="desktop-icons desktop-organized"><section class="desktop-group"><div class="group-items"><a class="desktop-icon lexiloop-desktop" href="../lexiloop/" target="_top" rel="noopener" aria-label="打开 LexiLoop 词萦介绍页"><span class="app-icon"><img src="../lexiloop/app/icon.svg" alt="词萦循环标志" width="64" height="64"></span><span class="shortcut-label">LexiLoop 词萦</span></a><a class="desktop-icon lexiloop-desktop greatwall-desktop" href="../greatwall/" target="_top" aria-label="打开发现长城 AR 项目介绍"><span class="app-icon"><img src="../greatwall/assets/app-icon.png" alt="发现长城 AR 图标" width="64" height="64" style="object-fit:contain;border-radius:14px"></span><span class="shortcut-label">发现长城 AR</span></a><a class="desktop-icon" id="timer-icon" href="../timer/" target="_top" aria-label="打开 Timer 项目介绍页"><span class="app-icon pixel-app-icon"><img src="timer-app-icon.svg" alt="像素秒表图标" width="64" height="64"></span><span class="shortcut-label">Timer</span></a><a class="desktop-icon lexiloop-desktop cozy-home-desktop" href="../cozy-home/experience.html" target="_top" aria-label="进入四口之家虚拟小窝"><span class="app-icon"><img src="../cozy-home/icon.png" alt="四口之家图标" width="64" height="64"></span><span class="shortcut-label">四口之家·虚拟小窝</span></a></div><h2>Apps &amp; Web</h2></section><section class="desktop-group"><div class="group-items"><button class="desktop-icon" id="open-aigc"><span class="app-icon notes-icon" style="background:#eee8d8;color:#82906a;font-size:27px">✦</span><span class="shortcut-label">AIGC视频</span></button><button class="desktop-icon lexiloop-desktop" id="open-architecture" aria-label="打开AIGC建筑文档"><span class="app-icon"><img src="../aigc-architecture/assets/aigc-architecture-icon-gradient.png" alt="AIGC建筑深蓝渐变四角星图标" width="64" height="64" style="object-fit:contain"></span><span class="shortcut-label">AIGC建筑</span></button><button class="desktop-icon lexiloop-desktop" id="open-cityvr" aria-label="打开城市漫游VR文档"><span class="app-icon"><img src="../cityvr/assets/cityvr-square-icon.png" alt="城市漫游VR图标" width="64" height="64" style="object-fit:contain"></span><span class="shortcut-label">城市漫游VR</span></button></div><h2>AIGC&amp;VR</h2></section><div class="desktop-personal"><button class="desktop-icon" id="open-notes" aria-label="打开个人介绍文档"><span class="app-icon notes-icon">≡</span><span class="shortcut-label">关于我</span></button></div></div><div class="desktop-copy"><h2>One thing.<br>At a time.</h2><p>MAKE SPACE FOR FOCUS.</p></div><section class="window note-window document-maximized" id="architecture-window" hidden aria-label="AIGC建筑文档"><div class="window-chrome"><span>AIGC建筑.doc</span><div class="controls"><button id="min-architecture" aria-label="最小化">−</button><button id="max-architecture" aria-label="还原或最大化">□</button><button id="close-architecture" aria-label="关闭">×</button></div></div><iframe data-src="../aigc-architecture/?embed=1" title="AIGC建筑工作流文档" style="border:0;flex:1;width:100%;min-height:0;background:#080a0c"></iframe></section><section class="window note-window document-maximized" id="cityvr-window" hidden aria-label="城市漫游VR文档"><div class="window-chrome"><span>城市漫游VR.doc</span><div class="controls"><button id="min-cityvr" aria-label="最小化">−</button><button id="max-cityvr" aria-label="还原或最大化">□</button><button id="close-cityvr" aria-label="关闭">×</button></div></div><iframe data-src="../cityvr/?embed=1" title="城市漫游VR与Unity分析文档" style="border:0;flex:1;width:100%;min-height:0;background:#fffefb"></iframe></section><section class="window note-window" id="aigc-window" hidden aria-label="AIGC视频文档"><div class="window-chrome"><span>AIGC视频.doc</span><div class="controls"><button id="min-aigc" aria-label="最小化">−</button><button id="max-aigc" aria-label="最大化">□</button><button id="close-aigc" aria-label="关闭">×</button></div></div><iframe src="../aigc-video/?embed=1" title="AIGC视频：工作流与提示词修改" style="border:0;flex:1;width:100%;min-height:0;background:#fffefb"></iframe></section><section class="window note-window" id="notes-window" hidden aria-label="个人介绍文档窗口"><div class="window-chrome"><span>个人介绍.doc</span><div class="controls"><button id="minimize-notes" aria-label="最小化个人介绍文档">−</button><button id="maximize-notes" aria-label="放大个人介绍文档" aria-pressed="false">□</button><button id="close-notes" aria-label="关闭个人介绍文档">×</button></div></div><div class="note-body personal-document"><div class="document-intro"><small>PERSONAL INTRODUCTION / YUER</small><h3>你好，我是王月。</h3><p>从建筑空间到屏幕里的交互，我喜欢把想法做成可以被看见、被体验的东西。</p><p>建筑学的学习与研究，让我习惯从人的感知、行为和使用场景出发。现在，我也在探索 AI 在设计中的应用，把这些思考带进数字产品与交互实践。</p><p class="document-signature">A little curious. Always making.</p></div><nav class="document-outline" aria-label="个人介绍文档目录"><a href="#personal-resume">01 个人简历 ↓</a><a href="#personal-hobbies">02 兴趣爱好 ↓</a></nav><section id="personal-resume" class="document-section"><small>01 / RESUME</small><h3>1. 个人简历</h3><p>教育经历、研究与项目实践。</p><a href="personal/resume-1.jpg?v=20261112-new" target="_blank" rel="noopener" aria-label="放大个人简历"><img src="personal/resume-1.jpg?v=20261112-new" alt="王月个人简历，包含教育背景、项目经历与专业技能" loading="lazy"></a></section><section id="personal-hobbies" class="document-section"><small>02 / BEYOND WORK</small><h3>2. 兴趣爱好</h3><p>书法、绘画与摄影，记录工作之外的日常。</p><a href="personal/hobbies-1.jpg" target="_blank" rel="noopener" aria-label="放大书画作品"><img src="personal/hobbies-1.jpg" alt="书法、水彩与绘画作品" loading="lazy"></a><a href="personal/hobbies-2.jpg" target="_blank" rel="noopener" aria-label="放大摄影作品"><img src="personal/hobbies-2.jpg" alt="个人摄影作品" loading="lazy"></a></section><p class="document-end">— A little curious. Always making. —</p></div></section><section class="window" id="timer-window" hidden aria-label="Timer 应用窗口"><div class="window-chrome" id="timer-drag"><span class="window-brand"><img class="timer-app-symbol" src="timer-app-icon.svg" alt="" width="20" height="20"><img class="brand-word" src="timer-logo.svg" alt="timer." width="53" height="16"><span id="window-label">/ TODAY</span></span><div class="controls"><button class="minimize" id="minimize" aria-label="最小化 Timer">−</button><button id="maximize" aria-label="切换 Timer 窗口最大化">□</button><button class="close" id="close-timer" aria-label="关闭 Timer 窗口">×</button></div></div><iframe id="timer-frame" src="product/index.html?view=tracker" title="Timer 原版应用，可操作的示例界面"></iframe></section><div class="taskbar"><div class="taskbar-left"><span class="os-mark">▦</span><div class="taskbar-apps"><button id="task-timer" aria-label="打开或恢复 Timer"><img class="timer-app-symbol" src="timer-app-icon.svg" alt="" width="23" height="23"><img src="timer-logo.svg" alt="timer." width="56" height="17"></button><button id="task-notes">≡ &nbsp; 个人介绍</button></div></div><button id="toggle-timer" hidden>▷ 开始计时</button><div class="tray"><span>◈ &nbsp; ▰</span><span id="os-clock"></span><span id="os-date"></span></div></div><div id="toast" class="toast" role="status" hidden></div></div></div><div class="bezel">YUER / PERSONAL DESKTOP</div></div><div class="experience-toolbar"><button id="fullscreen" class="quiet">全屏体验 ↗</button><div class="presets" aria-label="体验场景" hidden><button data-view="tracker" aria-pressed="true">01 主窗口</button><button data-view="floating" aria-pressed="false">02 悬浮专注</button><button data-view="stats" aria-pressed="false">03 时间统计</button><button data-view="data" aria-pressed="false">04 偏好设置</button></div><span class="hint">点击桌面图标探索项目</span></div></main><script src="desktop.js?v=personal-window2"></script><script>const aw=document.getElementById("aigc-window");function openAigc(){document.getElementById("architecture-window").hidden=true;document.getElementById("cityvr-window").hidden=true;aw.hidden=false;aw.classList.add("document-maximized");document.getElementById("notes-window").hidden=true}document.getElementById("open-aigc").onclick=openAigc;document.getElementById("min-aigc").onclick=()=>aw.hidden=true;document.getElementById("close-aigc").onclick=()=>{aw.hidden=true;aw.querySelector("iframe").contentWindow.postMessage({type:"pause-media"},location.origin)};document.getElementById("max-aigc").onclick=()=>aw.classList.toggle("document-maximized");window.addEventListener("message",e=>{if(e.origin===location.origin&&e.data?.type==="yuer-open-aigc")openAigc()});</script><script>const cw=document.getElementById("cityvr-window"),cf=cw.querySelector("iframe");function pauseCity(){cf.contentWindow.postMessage({type:"pause-media"},location.origin)}document.getElementById("open-cityvr").onclick=()=>{document.getElementById("architecture-window").hidden=true;document.getElementById("aigc-window").hidden=true;document.getElementById("notes-window").hidden=true;cw.hidden=false;cw.classList.add("document-maximized");if(!cf.getAttribute("src"))cf.src=cf.dataset.src};for(const id of ["min-cityvr","close-cityvr"])document.getElementById(id).onclick=()=>{pauseCity();cw.hidden=true};document.getElementById("max-cityvr").onclick=()=>cw.classList.toggle("document-maximized");</script><script>const arw=document.getElementById("architecture-window"),arf=arw.querySelector("iframe");function openArchitecture(){for(const id of ["aigc-window","cityvr-window","notes-window"])document.getElementById(id).hidden=true;arw.hidden=false;arw.classList.add("document-maximized");if(!arf.getAttribute("src"))arf.src=arf.dataset.src}document.getElementById("open-architecture").onclick=openArchitecture;for(const id of ["min-architecture","close-architecture"])document.getElementById(id).onclick=()=>arw.hidden=true;document.getElementById("max-architecture").onclick=()=>arw.classList.toggle("document-maximized");window.addEventListener("message",e=>{if(e.origin===location.origin&&e.data?.type==="yuer-open-architecture")openArchitecture()});</script></body></html>
